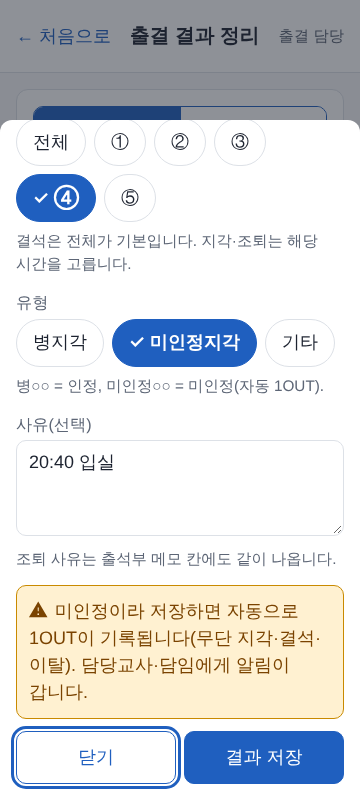
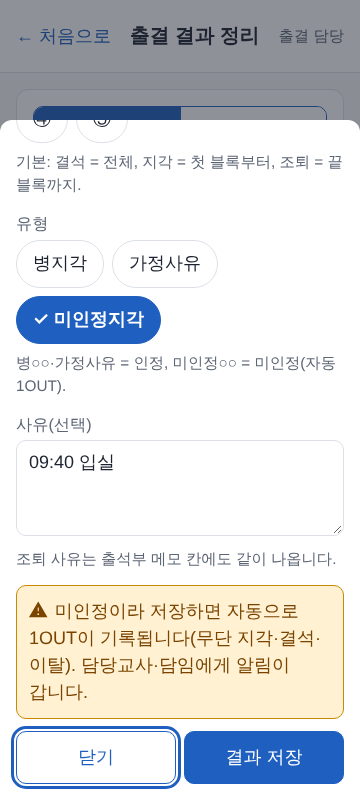
D12 5단계: 결과 시트를 결정 81에 맞춤(가정사유 칩, 기타 제거, 기본 블록), 시안 1장 추가
Claude-Session: https://claude.ai/code/session_01By8Yaa8urwsSoHVw3FXUZa

diff --git a/tests/design/docs.test.js b/tests/design/docs.test.js
@@ -212,7 +212,7 @@ test('D12 5단계 시안(stage5-screens.js): 화면 이름이 stage5-screens.md 
   assert.ok(imgs.length >= 19, '문서의 사진 수 ' + imgs.length);
   imgs.forEach((f) => assert.ok(fs.existsSync(path.join(__dirname, '..', '..', 'docs', 'design', f)), f + ' 파일이 없다'));
   ['.rg-cell', '.rg-pre', '.rg-sym', 'table.data.rg', '.rg-cell.bad', '.rg-cell.off', '.rg-cell.has'].forEach((c) => assert.ok(css.readFile('src/ui/Styles.html').indexOf(c.replace(/^table\.data\./, 'table.data.')) >= 0, c + ' 가 Styles.html 에 없다'));
-  ['`counsel.view`', '`counsel.save`', '`counsel.cancel`', 'ASSUMPTION', '미정·가정', '삭제 버튼은 어디에도 없다', '저장한 뒤에는 고치지 않는다', '자동 1OUT', '(내용 생략, N자)', '기본 켬', '결정 80', 'UI.rangeField'].forEach((t) => assert.ok(doc.indexOf(t) >= 0, t));
+  ['`counsel.view`', '`counsel.save`', '`counsel.cancel`', '결정 81', '미정·가정', '삭제 버튼은 어디에도 없다', '저장한 뒤에는 고치지 않는다', '자동 1OUT', '(내용 생략, N자)', '기본 켬', '결정 80', 'UI.rangeField'].forEach((t) => assert.ok(doc.indexOf(t) >= 0, t));
   // 미인정·운영 안 함은 색만으로 알리지 않는다(⚠ 글자·점선)
   const styles = css.readFile('src/ui/Styles.html');
   assert.ok(/\.rg-cell\.bad \.rg-sym::before \{ content: "⚠ "/.test(styles) && /\.rg-cell\.bad \{ border: 3px solid/.test(styles) && /\.rg-cell\.off \{[^}]*border-style: dashed/.test(styles));

diff --git a/docs/design/stage5-screens.md b/docs/design/stage5-screens.md
@@ -11,6 +11,7 @@
 | `result-grid-pc` | F11 결과 격자 — PC, 학생 × 날짜 한 주 | 출결 담당·관리자 |
 | `result-grid-phone` | F11 결과 정리 — 휴대폰, 날짜 하나 → 학생 줄 | 출결 담당·관리자 |
 | `result-cell-sheet` | 칸을 누르면: 결과 → 시간 → 유형 → 사유(인정) | 출결 담당·관리자 |
+| `result-cell-sheet-family` | 가정사유를 고르면: 덮는 블록으로 센다는 안내(결정 81) | 출결 담당·관리자 |
 | `result-cell-sheet-bad` | 미인정을 고르면: 자동 1OUT 안내 | 출결 담당·관리자 |
 | `result-cell-pre` | 사전 특이사항이 있는 칸: 위에 안내 | 출결 담당·관리자 |
 | `result-cancel` | 입력한 결과 취소(사유 필수, 자동 1OUT도 취소) | 출결 담당·관리자 |
@@ -50,12 +51,13 @@
 
 ### 1-3. 칸을 눌렀을 때 (`result-cell-sheet`·`result-cell-sheet-bad`·`result-cell-pre`)
 
-![인정 결과](stage5-photos/result-cell-sheet.png) ![미인정 결과](stage5-photos/result-cell-sheet-bad.png) ![사전 특이사항 칸](stage5-photos/result-cell-pre.png)
+![인정 결과](stage5-photos/result-cell-sheet.png) ![가정사유](stage5-photos/result-cell-sheet-family.png) ![미인정 결과](stage5-photos/result-cell-sheet-bad.png) ![사전 특이사항 칸](stage5-photos/result-cell-pre.png)
 
 `UI.bottomSheet` 하나. 위에서 아래로: 제목 "결과 입력", 리드 "3월 11일(목) · 3-1 1번 김가온" →
 1. **결과** `UI.segmented`: 결석 × · 지각 △ · 조퇴 조.
-2. **시간** `UI.blockChips`: 결석은 **전체가 기본**, 지각·조퇴는 해당 시간을 고른다(조퇴 "20:30부터"처럼 시간을 남긴다). (6절 3번 참고)
-3. **유형** 칩 — 고른 결과의 유형만 보인다: 결석 = 병결 · 미인정결석 · 기타, 지각 = 병지각 · 미인정지각 · 기타, 조퇴 = 병조퇴 · 미인정조퇴 · 기타. 칩 아래 설명 "병○○ = 인정, 미인정○○ = 미인정(자동 1OUT)".
+2. **시간** `UI.blockChips`: **기본 = 결석 전체 · 지각 첫 블록 · 조퇴 마지막 블록**(결정 81 총괄 답). 고칠 수 있다(조퇴 "20:30부터"처럼 시간을 남긴다).
+3. **유형** 칩 — 고른 결과의 유형만 보인다: 결석 = 병결 · 가정사유 · 미인정결석, 지각 = 병지각 · 가정사유 · 미인정지각, 조퇴 = 병조퇴 · 가정사유 · 미인정조퇴. **'기타'는 결과로 세지 않아 칩에 없다.** 인정 = 병○○·가정사유, 미인정 = 이름이 '미인정'으로 시작하는 유형(자동 1OUT). 칩 아래 설명 "병○○·가정사유 = 인정, 미인정○○ = 미인정(자동 1OUT)".
+   - **가정사유(`result-cell-sheet-family`)**를 고르면 시간 칩이 덮는 블록을 정한다: 하루 전부 = 인정 결석, 첫 블록부터 = 인정 지각, 끝 블록까지 = 인정 조퇴, 가운데만이면 세지 않는다. 안내 상자로 알리고 OUT은 생기지 않는다.
 4. **사유(선택)** 글 칸 200자(조퇴 사유는 출석부 메모 칸에도 나온다, 결정 38).
 5. 안내 한 줄: 인정이면 "결과는 사전 특이사항(확정)으로 저장됩니다. 잘못 넣으면 취소하고 새로 넣습니다." **미인정이면 경고 상자**(`.notice.warn`, ⚠) "미인정이라 저장하면 자동으로 1OUT이 기록됩니다(무단 지각·결석·이탈). 담당교사·담임에게 알림이 갑니다." — 바꾼 유형에 따라 두 안내가 바뀐다.
 6. 아래: [닫기] · [결과 저장].
@@ -167,11 +169,11 @@
 
 ## 6. 미정·가정·확인 못 한 것 (코딩이 임의로 정하지 않는다)
 
-1. **유형 칩 목록(ASSUMPTION):** 결과별로 병○○·미인정○○·기타만 보인다. 가정사유·학원 등 사전에 정하는 유형은 결과로 찍지 않는다고 가정했다. **'기타'는 어떤 결과인지 칸 기호로 알 수 없다** — R22가 기호를 유형 이름이 아니라 따로 저장하는 방법(예: 사유 앞 `[결석]`)을 정해야 한다. 정해지기 전에는 기타를 빼고 [병○○][미인정○○] 두 칩만 두는 것도 가능하다(총괄 판단).
-2. **인정/미인정 판정:** 미인정 = 설정 `exception.auto_out_types`의 유형(기본 미인정지각·미인정조퇴·미인정결석), 인정 = 그 밖의 결석·지각·조퇴 유형으로 가정했다. 사전 특이사항 병결(F1)도 누적의 "결석 인정"에 센다고 가정했다 — R22 확정 필요.
-3. **시간(블록) 칩:** 총괄 요구(결과 → 유형 → 사유)에 **시간 고르기를 더했다**(결석은 전체 기본). 하루 전체 결과만 받을지는 총괄이 정한다(빼면 시트가 한 칸 짧아진다).
+1. **(결정됨, 결정 81)** 결과 시트 유형 칩은 인정 = 병결·병지각·병조퇴 + 가정사유, 미인정 = 미인정○○. '기타'는 뺐다(결과로 세지 않음). 가정사유는 시간 칩이 덮는 블록으로 인정 결석·지각·조퇴를 정한다.
+2. **(결정됨)** 이름이 '미인정'으로 시작하면 미인정(자동 1OUT), 사전 병결은 인정 결석으로 센다.
+3. **(결정됨)** 시간(블록) 칩을 둔다. 기본: 결석 = 전체, 지각 = 첫 블록, 조퇴 = 마지막 블록.
 4. **격자·목록 전환 기준**은 화면 폭 900px 이상(PC)/미만(휴대폰)으로 제안했다(코딩이 조정 가능).
-5. **"정리 끝낸 날" 표시는 만들지 않았다.** PRD 출결 담당 홈의 "격자 정리 남은 날짜"를 센다면 날짜별 정리 완료 표시(새 저장)가 필요하다 — 이 시안에는 없다. 필요하면 총괄이 새 탭 승인과 함께 정한다.
+5. **(결정됨: 만들지 않는다)** "정리 끝낸 날" 표시. PRD 출결 담당 홈의 "격자 정리 남은 날짜"를 센다면 날짜별 정리 완료 표시(새 저장)가 필요하다 — 이 시안에는 없다. 필요하면 총괄이 새 탭 승인과 함께 정한다.
 6. **월 보기**는 가로로 미는 한 줄(31열)로 가정했다. 180명 × 31일은 학년·반 칩으로 거른 뒤에 쓴다.
 7. F12의 학부모 화면(상담 날짜·교사만 보임)은 F14(학생·학부모 포털, 0단계 진단 뒤)로 이 시안 밖이다.
 8. **F13 종류 칩 값**(행사·시험·안내·기타는 제안)과 칸에 나오는 제목 글자 수(앞 두 글자 제안), 하루에 일정이 많을 때의 "N건" 표시는 코딩A·총괄이 확정한다. 학생·학부모 달력(F14)은 이 시안 밖.
